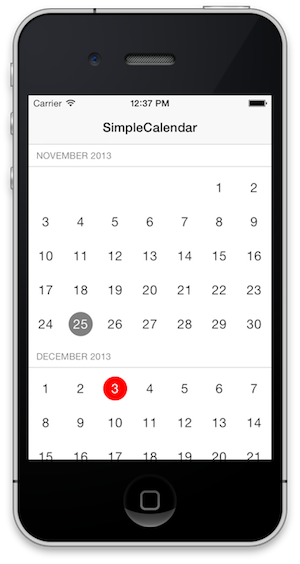
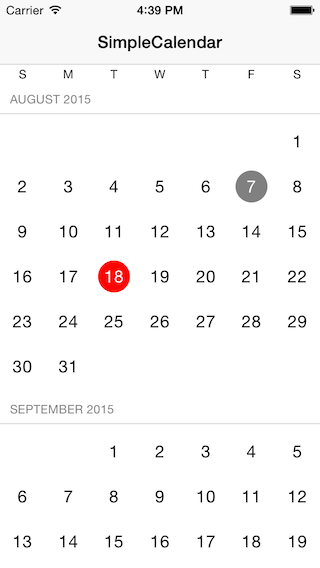
Update Screenshots

diff --git a/PDTSimpleCalendarDemo/PDTSimpleCalendarDemo/PDTAppDelegate.m b/PDTSimpleCalendarDemo/PDTSimpleCalendarDemo/PDTAppDelegate.m
@@ -24,13 +24,13 @@
     self.window = [[UIWindow alloc] initWithFrame:[[UIScreen mainScreen] bounds]];
     self.window.backgroundColor = [UIColor whiteColor];
 
-    NSDateFormatter* dateFormatter = [[NSDateFormatter alloc] init];
-    dateFormatter.dateFormat = @"dd/MM/yyyy";
-    _customDates = @[[dateFormatter dateFromString:@"01/05/2014"], [dateFormatter dateFromString:@"01/06/2014"], [dateFormatter dateFromString:@"01/07/2014"]];
-    
+    [self initCustomDates];
+
     PDTSimpleCalendarViewController *calendarViewController = [[PDTSimpleCalendarViewController alloc] init];
     //This is the default behavior, will display a full year starting the first of the current month
     [calendarViewController setDelegate:self];
+    calendarViewController.weekdayHeaderEnabled = YES;
+    calendarViewController.weekdayTextType = PDTSimpleCalendarViewWeekdayTextTypeVeryShort;
 
     PDTSimpleCalendarViewController *hebrewCalendarViewController = [[PDTSimpleCalendarViewController alloc] init];
     //Example of how you can change the default calendar
@@ -116,7 +116,6 @@
     // Called when the application is about to terminate. Save data if appropriate. See also applicationDidEnterBackground:.
 }
 
-
 #pragma mark - PDTSimpleCalendarViewDelegate
 
 - (void)simpleCalendarViewController:(PDTSimpleCalendarViewController *)controller didSelectDate:(NSDate *)date
@@ -143,5 +142,21 @@
 {
     return [UIColor orangeColor];
 }
+
+#pragma mark - Private
+
+//Add 3 custom dates, the 15th for the current & 2 next months.
+- (void)initCustomDates
+{
+    NSDateComponents *components = [[NSCalendar currentCalendar] components:NSCalendarUnitMonth|NSCalendarUnitYear fromDate:[NSDate date]];
+    components.day = 15;
+    NSDate *date1 = [[NSCalendar currentCalendar] dateFromComponents:components];
+    NSDateComponents *addOneMonthComponents = [[NSDateComponents alloc] init];
+    addOneMonthComponents.month =1;
+    NSDate *date2 = [[NSCalendar currentCalendar] dateByAddingComponents:addOneMonthComponents toDate:date1 options:0];
+    NSDate *date3 = [[NSCalendar currentCalendar] dateByAddingComponents:addOneMonthComponents toDate:date2 options:0];
+    self.customDates = @[date1, date2, date3];
+}
+
 
 @end

diff --git a/RELEASENOTES.md b/RELEASENOTES.md
@@ -1,5 +1,11 @@
 ##PDTSimpleCalendar Release Notes
 
+###0.9.0
+Last version compatible with iOS6. Following versions will be compatible iOS7+. Regarding the adoption rate of iOS8 & 7. I doubt this is gonna be an issue.
+
+You can now display a fixed-header with the days of the week. Set `weekdayHeaderEnabled = YES` to display it. For Backward compatibility, the default behavior is NO. Although having it visible might become the default behavior in 1.0.
+You can also tweak the style of the weekdays by setting the property `weekdayTextType`;
+
 ###0.8.0
 Bug fixes and small improvements
 
